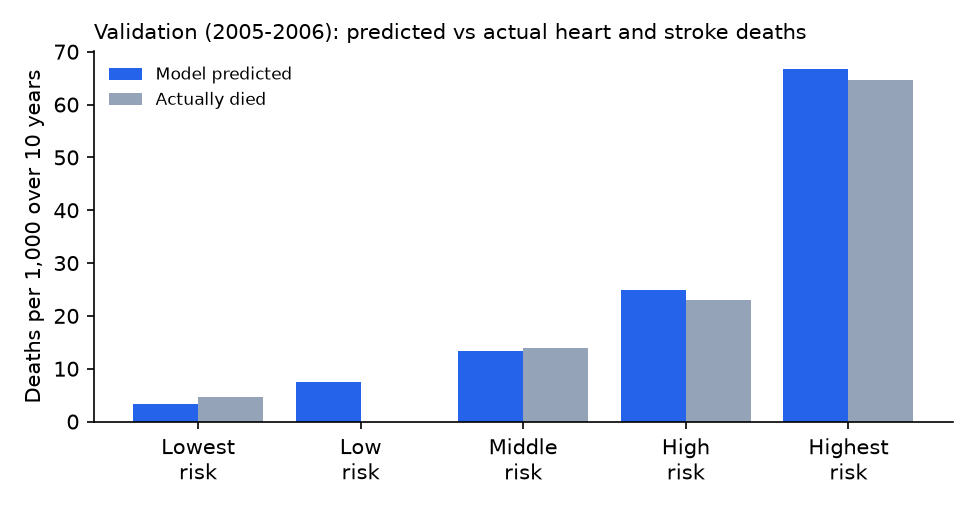
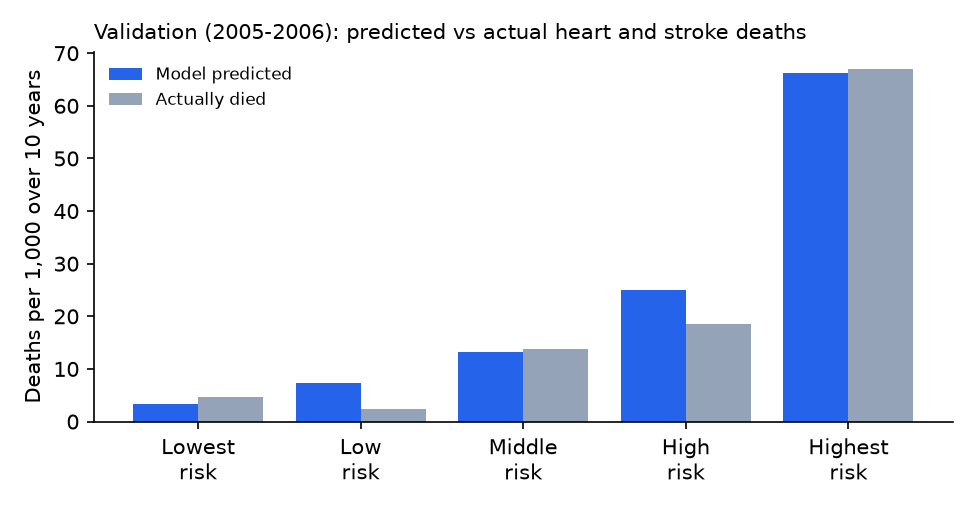
Heart EDA from real NHANES data [skip ci]

diff --git a/docs/models/heart.md b/docs/models/heart.md
@@ -1,13 +1,15 @@
 # Heart model
 
-Logistic regression on age, sex, total_chol, hdl, sbp, on_bp_meds, diabetes, current_smoker. Target: death from heart disease or stroke within 10 years of the NHANES exam (linked death records).
+Logistic regression on age, sex, bmi, total_chol, hdl, sbp, on_bp_meds, diabetes, current_smoker. Target: death from heart disease or stroke within 10 years of the NHANES exam (linked death records).
 
 Trained on 1999-2000, 2001-2002, 2003-2004 (6,776 people, 173 deaths).
 
 | Model | Split | People | Deaths | AUC | Brier | Predicted per 1,000 | Observed per 1,000 |
 | --- | --- | --- | --- | --- | --- | --- | --- |
 | baseline_age_sex | val | 2,165 | 46 | 0.745 | 0.0205 | 24.4 | 21.2 |
-| model | val | 2,165 | 46 | 0.779 | 0.0203 | 23.2 | 21.2 |
+| baseline_age_sex | test | 2,877 | 70 | 0.702 | 0.0233 | 25.1 | 24.3 |
+| model | val | 2,165 | 46 | 0.775 | 0.0204 | 23.0 | 21.2 |
+| model | test | 2,877 | 70 | 0.782 | 0.0234 | 24.1 | 24.3 |
 
 ![Calibration](heart_calibration_val.png)
 
@@ -16,13 +18,15 @@ Trained on 1999-2000, 2001-2002, 2003-2004 (6,776 people, 173 deaths).
 | Term | Odds ratio |
 | --- | --- |
 | age | 1.86 |
+| bmi | 1.01 |
 | total_chol | 1.13 |
-| hdl | 0.92 |
-| sbp | 1.44 |
-| missingindicator_total_chol | 1.06 |
-| missingindicator_hdl | 1.06 |
-| missingindicator_sbp | 0.78 |
-| on_bp_meds | 1.61 |
-| diabetes | 2.01 |
-| current_smoker | 2.07 |
+| hdl | 0.93 |
+| sbp | 1.43 |
+| missingindicator_bmi | 1.17 |
+| missingindicator_total_chol | 1.05 |
+| missingindicator_hdl | 1.05 |
+| missingindicator_sbp | 0.7 |
+| on_bp_meds | 1.6 |
+| diabetes | 1.98 |
+| current_smoker | 2.05 |
 | sex_male | 2.06 |
